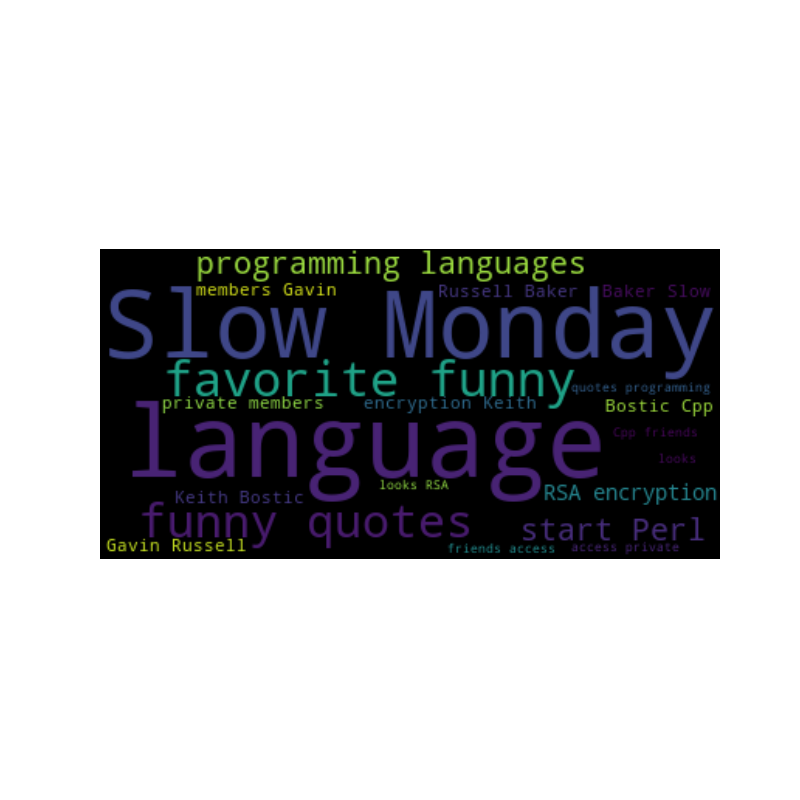
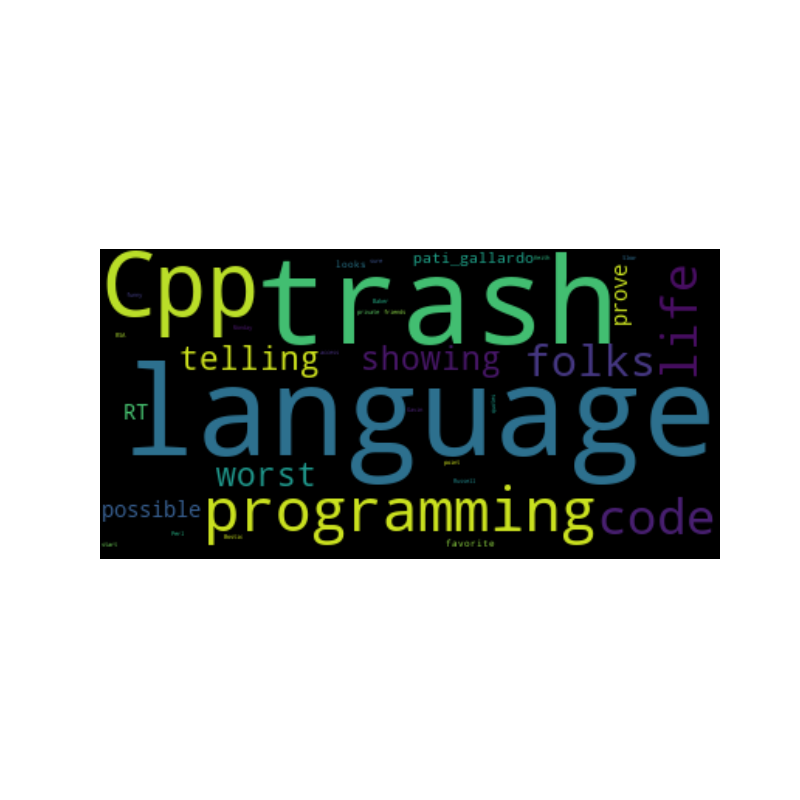
Replaced jenky regex matching with word_tokenize like I should have in the first place; removed collocations in WordClouds

Changed region(s): [[0.125, 0.3125, 0.9062, 0.6875]]

diff --git a/main.py b/main.py
@@ -26,7 +26,7 @@ def main():
                                         yaml_key="search_tweets_v2",
                                         env_overwrite=False)
 
-    query = gen_request_parameters("(favorite programming language) -is:retweet -has:media", granularity=False, results_per_call=100)
+    query = gen_request_parameters("(favorite programming language)", granularity=False, results_per_call=100)
     all_tweets = []
     for i in range(10):
         rs = ResultStream(request_parameters=query,
@@ -35,7 +35,6 @@ def main():
                         **search_args)
         rsList = list(rs.stream())
         all_tweets = all_tweets + rsList
-    print(all_tweets)
 
     tweets = {}
 
@@ -46,34 +45,26 @@ def main():
     for data in all_tweets[0:100]:
         for tweet in list(dict(data)["data"]):
             t = dict(tweet)
-            wrds = t["text"].replace("“", "")
-            wrds = wrds.replace("?", "")
-            wrds = re.split('\n |\ |, |\*|\n', wrds)
-            words = [w for w in wrds]
+            words = nltk.word_tokenize(t["text"])
             tweets[t["id"]] = " ".join(words)
             for lang in GetLanguages():
-                if lang in wrds or lang.lower() in wrds:
+                if lang in words or lang.lower() in words:
                     all_languages += f" {lang} "
                     if lang not in languages.keys():
                         languages[lang] = " ".join(words)
                     else:
                         languages[lang] += f" {' '.join(words)} "
+
     sia = SentimentIntensityAnalyzer()
     print("Generating Sentiment Polarity Scores for languages...")
     sia_scores = {}
     for key,value in languages.items():
         sia_scores[key] = sia.polarity_scores(value)
-<<<<<<< HEAD
     df = pd.DataFrame.from_dict(sia_scores)
     print("Creating polarity score csv...")
     df.to_csv("./polarity_scores.csv")
 
     vals = []
-=======
-    xValues = []
-    yValues = []
-    zValues = []
->>>>>>> 127a68abf1e175cc030ae2f068d1f69c332aa0d6
     for lang in languages.keys():
         if lang in sia_scores.keys():
             vals.append(sia_scores[lang]["compound"])
@@ -88,25 +79,29 @@ def main():
     for data in all_tweets[0:10]:
         for tweet in list(dict(data)["data"]):
             t = dict(tweet)
-            wrds = t["text"].replace("“", "")
-            wrds = wrds.replace("?", "")
-            wrds = re.split('\n |\ |, |\*|\n', wrds)
-            words = [w for w in wrds if w.lower() not in stopwords and "http" not in w]
-            tweets[t["id"]] = " ".join(words)
+            wrds = nltk.word_tokenize(t["text"])
+            words = [w for w in wrds if (w.isalpha() or 'C++' in w or 'C#' in w) and w.lower() not in stopwords and "http" not in w]
+            tweets[t["id"]] = words
             for lang in GetLanguages():
-                if lang in wrds or lang.lower() in wrds:
+                if lang in words or lang.lower() in words:
                     all_languages += f" {lang} "
                     if lang not in languages.keys():
                         languages[lang] = " ".join(words)
                     else:
                         languages[lang] += f" {' '.join(words)} "
 
-    all_words = " ".join([tweets[t] for t in tweets.keys()])
-    
-    wordcloud = WordCloud()
+    all_words = []
+    for t in tweets.keys():
+        for w in tweets[t]:
+            all_words.append(w)
+
+    wordcloud = WordCloud(collocations=False)
 
     # Wordcloud for all tweets
     print("Generating wordcloud for all tweets...")
+    all_words = " ".join(all_words)
+    all_words = all_words.replace("C++", "Cpp")
+    all_words = all_words.replace("C#", "Csharp")
     wordcloud.generate(all_words)
     plt.figure(figsize= (8, 8))
     plt.imshow(wordcloud, interpolation='bilinear')
@@ -117,6 +112,7 @@ def main():
     # WordCloud for only language references
     print("Generating wordcloud for only language references...")
     all_languages = all_languages.replace("C++", "Cpp")
+    all_words = all_words.replace("C#", "Csharp")
     wordcloud.generate(all_languages)
     plt.imshow(wordcloud, interpolation='bilinear')
     plt.axis("off")
